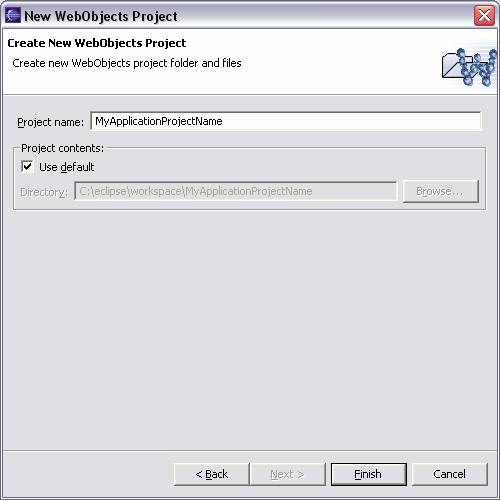
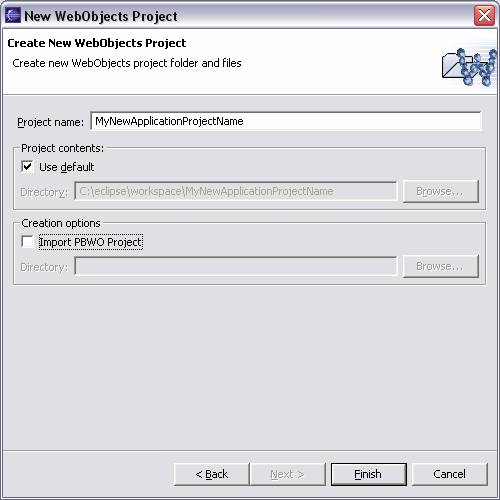
Updated wizards documentation.
git-svn-id: https://svn.objectstyle.org/repos/woproject/trunk@575 930f2ab1-3212-0410-a8ea-d1eb4cc50a93

Changed region(s): [[0.0, 0.42, 0.99, 0.57], [0.39, 0.36, 0.66, 0.39], [0.21, 0.24, 0.48, 0.27]]

diff --git a/src/wolips-help/doc_root/tasks/wiz/add_eomodel.html b/src/wolips-help/doc_root/tasks/wiz/add_eomodel.html
@@ -6,7 +6,7 @@
 <!-- ======================================================= -->
 <html>
 <head>
-        <title>WOApplication Wizard</title>
+        <title>WOComponent Wizard</title>
         <meta http-equiv="Content-Type" content="text/html; charset=iso-8859-1"/>
         <meta name="keywords" content="Eclipse Plugin, Eclipse IDE, WebObjects, OpenSource Development, Ant, buildtool, WebObjects 5.1, EOF, Enterprise Objects Framework">
         <meta name="description" content="WebObjects 5.1 Eclipse Plugin">
@@ -24,7 +24,7 @@ body { font-family: arial, helvetica, geneva; font-size: 10pt; clip: rect(   ); 
 </head>
 
 <body bgcolor="#ffffff" leftmargin="0" marginwidth="0" topmargin="0" marginheight="0">
-<h1>Importing an Existing Application</h1>
+<h1>Adding a New EO model</h1>
 <table width="100%">
   <tr> 
     <td colspan="2"> 
@@ -40,45 +40,48 @@ body { font-family: arial, helvetica, geneva; font-size: 10pt; clip: rect(   ); 
   </tr>
   <tr> 
     <td align="left" valign="top"><img src="../../images/wiz/step1a.jpg" width="184" height="263"></td>
-    <td align="left" valign="top"><img src="../../images/wiz/step1b.jpg" width="489" height="490"></td>
+    <td><img src="../../images/wiz/step1b.jpg" width="489" height="490"></td>
+  </tr>
+  <tr> 
+    <td colspan="2">&nbsp;</td>
   </tr>
   <tr> 
     <td colspan="2"> 
       <p>&nbsp;</p>
       <p>The New wizard selection dialog appears.</p>
       <ul>
-        <li>Choose WOLips WO 5.1 and 5.2, and then Application.</li>
+        <li>Choose WOLips WO 5.1 and 5.2, and then EOModel.</li>
         <li>Press the Next button.</li>
       </ul>
     </td>
   </tr>
   <tr> 
-    <td colspan="2"><img src="../../images/wiz/select_application.jpg" width="500" height="500"></td>
+    <td colspan="2"><img src="../../images/wiz/select_eomodel.jpg" width="500" height="500"></td>
   </tr>
   <tr> 
     <td colspan="2"> 
       <p>&nbsp;</p>
       <ul>
-        <li>Name the new application project, and optionally specify where you 
-          want to keep the project files.</li>
-        <li>Check the Import PBWO Project option, and specify which directory 
-          contains the project.</li>
+        <li>Specify which project you want the new eo-model added to.</li>
+        <li>Name the new eo-model.</li>
+        <li>Choose adaptor type (None, JDBC or JNDI).</li>
         <li>Press the Finish button.</li>
       </ul>
     </td>
   </tr>
   <tr> 
-    <td colspan="2"><img src="../../images/wiz/point_name_application.jpg" width="500" height="500"></td>
+    <td colspan="2"><img src="../../images/wiz/project_name_eomodel.jpg" width="500" height="702"></td>
   </tr>
   <tr> 
     <td colspan="2"> 
       <p>&nbsp;</p>
       <ul>
-        <li>Start programming your new WebObjects application.</li>
+        <li>Start programming your new WebObjects eo-model.</li>
       </ul>
     </td>
   </tr>
 </table>
+<p>&nbsp;</p>
 </body>
 </html>
 

diff --git a/src/wolips-help/doc_root/tasks/wiz/import_framework.html b/src/wolips-help/doc_root/tasks/wiz/import_framework.html
@@ -27,7 +27,7 @@ body { font-family: arial, helvetica, geneva; font-size: 10pt; clip: rect(   ); 
 <h1>Importing an Existing Framework</h1>
 <table width="100%">
   <tr> 
-    <td> 
+    <td colspan="2"> 
       <p>&nbsp;</p>
       <ul>
         <li>Press the Open The New Wizard button.</li>
@@ -39,13 +39,11 @@ body { font-family: arial, helvetica, geneva; font-size: 10pt; clip: rect(   ); 
     </td>
   </tr>
   <tr> 
-    <td><img src="../../images/wiz/step1a.jpg" width="184" height="263"></td>
-  </tr>
-  <tr> 
+    <td align="left" valign="top"><img src="../../images/wiz/step1a.jpg" width="184" height="263"></td>
     <td><img src="../../images/wiz/step1b.jpg" width="489" height="490"></td>
   </tr>
   <tr> 
-    <td> 
+    <td colspan="2"> 
       <p>&nbsp;</p>
       <p>The New wizard selection dialog appears.</p>
       <ul>
@@ -55,25 +53,26 @@ body { font-family: arial, helvetica, geneva; font-size: 10pt; clip: rect(   ); 
     </td>
   </tr>
   <tr> 
-    <td><img src="../../images/wiz/select_framework.jpg" width="500" height="500"></td>
+    <td colspan="2"><img src="../../images/wiz/select_framework.jpg" width="500" height="500"></td>
   </tr>
   <tr> 
-    <td> 
+    <td colspan="2"> 
       <p>&nbsp;</p>
       <ul>
-        <li>Name the new framework project.</li>
-        <li>Point the project contents directory path to where the existing project 
-          is. (The new project will end up in the default location - you do not 
-          have a choice. The original project is left unchanged.)</li>
+        <li>Name the new framework project, and optionally specify where you want 
+          to keep the project files.</li>
+        <li>Check the Import PBWO Project option, and specify which directory 
+          contains the project.</li>
         <li>Press the Finish button.</li>
+        <li></li>
       </ul>
     </td>
   </tr>
   <tr> 
-    <td><img src="../../images/wiz/point_name_framework.jpg" width="500" height="500"></td>
+    <td colspan="2"><img src="../../images/wiz/point_name_framework.jpg" width="500" height="500"></td>
   </tr>
   <tr> 
-    <td> 
+    <td colspan="2"> 
       <p>&nbsp;</p>
       <ul>
         <li>Start programming your new WebObjects framework.</li>

diff --git a/src/wolips-help/doc_root/tasks/wiz/new_application.html b/src/wolips-help/doc_root/tasks/wiz/new_application.html
@@ -25,9 +25,9 @@ body { font-family: arial, helvetica, geneva; font-size: 10pt; clip: rect(   ); 
 
 <body bgcolor="#ffffff" leftmargin="0" marginwidth="0" topmargin="0" marginheight="0">
 <h1>Creating a New Application</h1>
-<table width="100%">
+<table width="101%">
   <tr> 
-    <td> 
+    <td colspan="2"> 
       <p>&nbsp;</p>
       <ul>
         <li>Press the Open The New Wizard button.</li>
@@ -39,13 +39,11 @@ body { font-family: arial, helvetica, geneva; font-size: 10pt; clip: rect(   ); 
     </td>
   </tr>
   <tr> 
-    <td><img src="../../images/wiz/step1a.jpg" width="184" height="263"></td>
+    <td align="left" valign="top"> <img src="../../images/wiz/step1a.jpg" width="184" height="263"></td>
+    <td align="left" valign="top"><img src="../../images/wiz/step1b.jpg" width="489" height="490"></td>
   </tr>
   <tr> 
-    <td><img src="../../images/wiz/step1b.jpg" width="489" height="490"></td>
-  </tr>
-  <tr> 
-    <td> 
+    <td colspan="2"> 
       <p>&nbsp;</p>
       <p>The New wizard selection dialog appears.</p>
       <ul>
@@ -55,23 +53,24 @@ body { font-family: arial, helvetica, geneva; font-size: 10pt; clip: rect(   ); 
     </td>
   </tr>
   <tr> 
-    <td><img src="../../images/wiz/select_application.jpg" width="500" height="500"></td>
+    <td colspan="2"><img src="../../images/wiz/select_application.jpg" width="500" height="500"></td>
   </tr>
   <tr> 
-    <td> 
+    <td colspan="2"> 
       <p>&nbsp;</p>
       <ul>
         <li>Name the new application project, and optionally specify where you 
-          want to keep the project files.</li>
+          want to keep the project files. (The creation options are only relevant 
+          if/when importing existing projects.)</li>
         <li>Press the Finish button.</li>
       </ul>
     </td>
   </tr>
   <tr> 
-    <td><img src="../../images/wiz/name_application.jpg" width="500" height="500"></td>
+    <td colspan="2"><img src="../../images/wiz/name_application.jpg" width="500" height="500"></td>
   </tr>
   <tr> 
-    <td> 
+    <td colspan="2"> 
       <p>&nbsp;</p>
       <ul>
         <li>Start programming your new WebObjects application.</li>

diff --git a/src/wolips-help/doc_root/tasks/wiz/new_framework.html b/src/wolips-help/doc_root/tasks/wiz/new_framework.html
@@ -27,7 +27,7 @@ body { font-family: arial, helvetica, geneva; font-size: 10pt; clip: rect(   ); 
 <h1>Creating a New Framework</h1>
 <table width="100%">
   <tr> 
-    <td> 
+    <td colspan="2"> 
       <p>&nbsp;</p>
       <ul>
         <li>Press the Open The New Wizard button.</li>
@@ -39,13 +39,11 @@ body { font-family: arial, helvetica, geneva; font-size: 10pt; clip: rect(   ); 
     </td>
   </tr>
   <tr> 
-    <td><img src="../../images/wiz/step1a.jpg" width="184" height="263"></td>
+    <td align="left" valign="top"><img src="../../images/wiz/step1a.jpg" width="184" height="263"></td>
+    <td align="left" valign="top"><img src="../../images/wiz/step1b.jpg" width="489" height="490"></td>
   </tr>
   <tr> 
-    <td><img src="../../images/wiz/step1b.jpg" width="489" height="490"></td>
-  </tr>
-  <tr> 
-    <td> 
+    <td colspan="2"> 
       <p>&nbsp;</p>
       <p>The New wizard selection dialog appears.</p>
       <ul>
@@ -55,23 +53,24 @@ body { font-family: arial, helvetica, geneva; font-size: 10pt; clip: rect(   ); 
     </td>
   </tr>
   <tr> 
-    <td><img src="../../images/wiz/select_framework.jpg" width="500" height="500"></td>
+    <td colspan="2"><img src="../../images/wiz/select_framework.jpg" width="500" height="500"></td>
   </tr>
   <tr> 
-    <td> 
+    <td colspan="2"> 
       <p>&nbsp;</p>
       <ul>
         <li>Name the new framework project, and optionally specify where you want 
-          to keep the project files.</li>
+          to keep the project files. (The creation options are only relevant if/when 
+          importing existing projects.)</li>
         <li>Press the Finish button.</li>
       </ul>
     </td>
   </tr>
   <tr> 
-    <td><img src="../../images/wiz/name_framework.jpg" width="500" height="500"></td>
+    <td colspan="2"><img src="../../images/wiz/name_framework.jpg" width="500" height="500"></td>
   </tr>
   <tr> 
-    <td> 
+    <td colspan="2"> 
       <p>&nbsp;</p>
       <ul>
         <li>Start programming your new WebObjects framework.</li>

diff --git a/src/wolips-help/doc_root/tasks/wiz/index.html b/src/wolips-help/doc_root/tasks/wiz/index.html
@@ -25,12 +25,20 @@ body { font-family: arial, helvetica, geneva; font-size: 10pt; clip: rect(   ); 
 
 <body bgcolor="#ffffff" leftmargin="0" marginwidth="0" topmargin="0" marginheight="0">
 <h1>Wizards</h1>
+<h2>New Projects</h2>
 <ul>
   <li><a href="new_application.html">New Application</a></li>
   <li> <a href="new_framework.html">New Framework</a></li>
+</ul>
+<h2>Import Projects</h2>
+<ul>
   <li><a href="import_application.html">Import Application</a></li>
   <li><a href="import_framework.html">Import Framework</a></li>
+</ul>
+<h2>Add project content</h2>
+<ul>
   <li><a href="add_component.html">Add Component</a></li>
+  <li><a href="add_eomodel.html">Add EO model</a></li>
 </ul>
 </body>
 </html>
